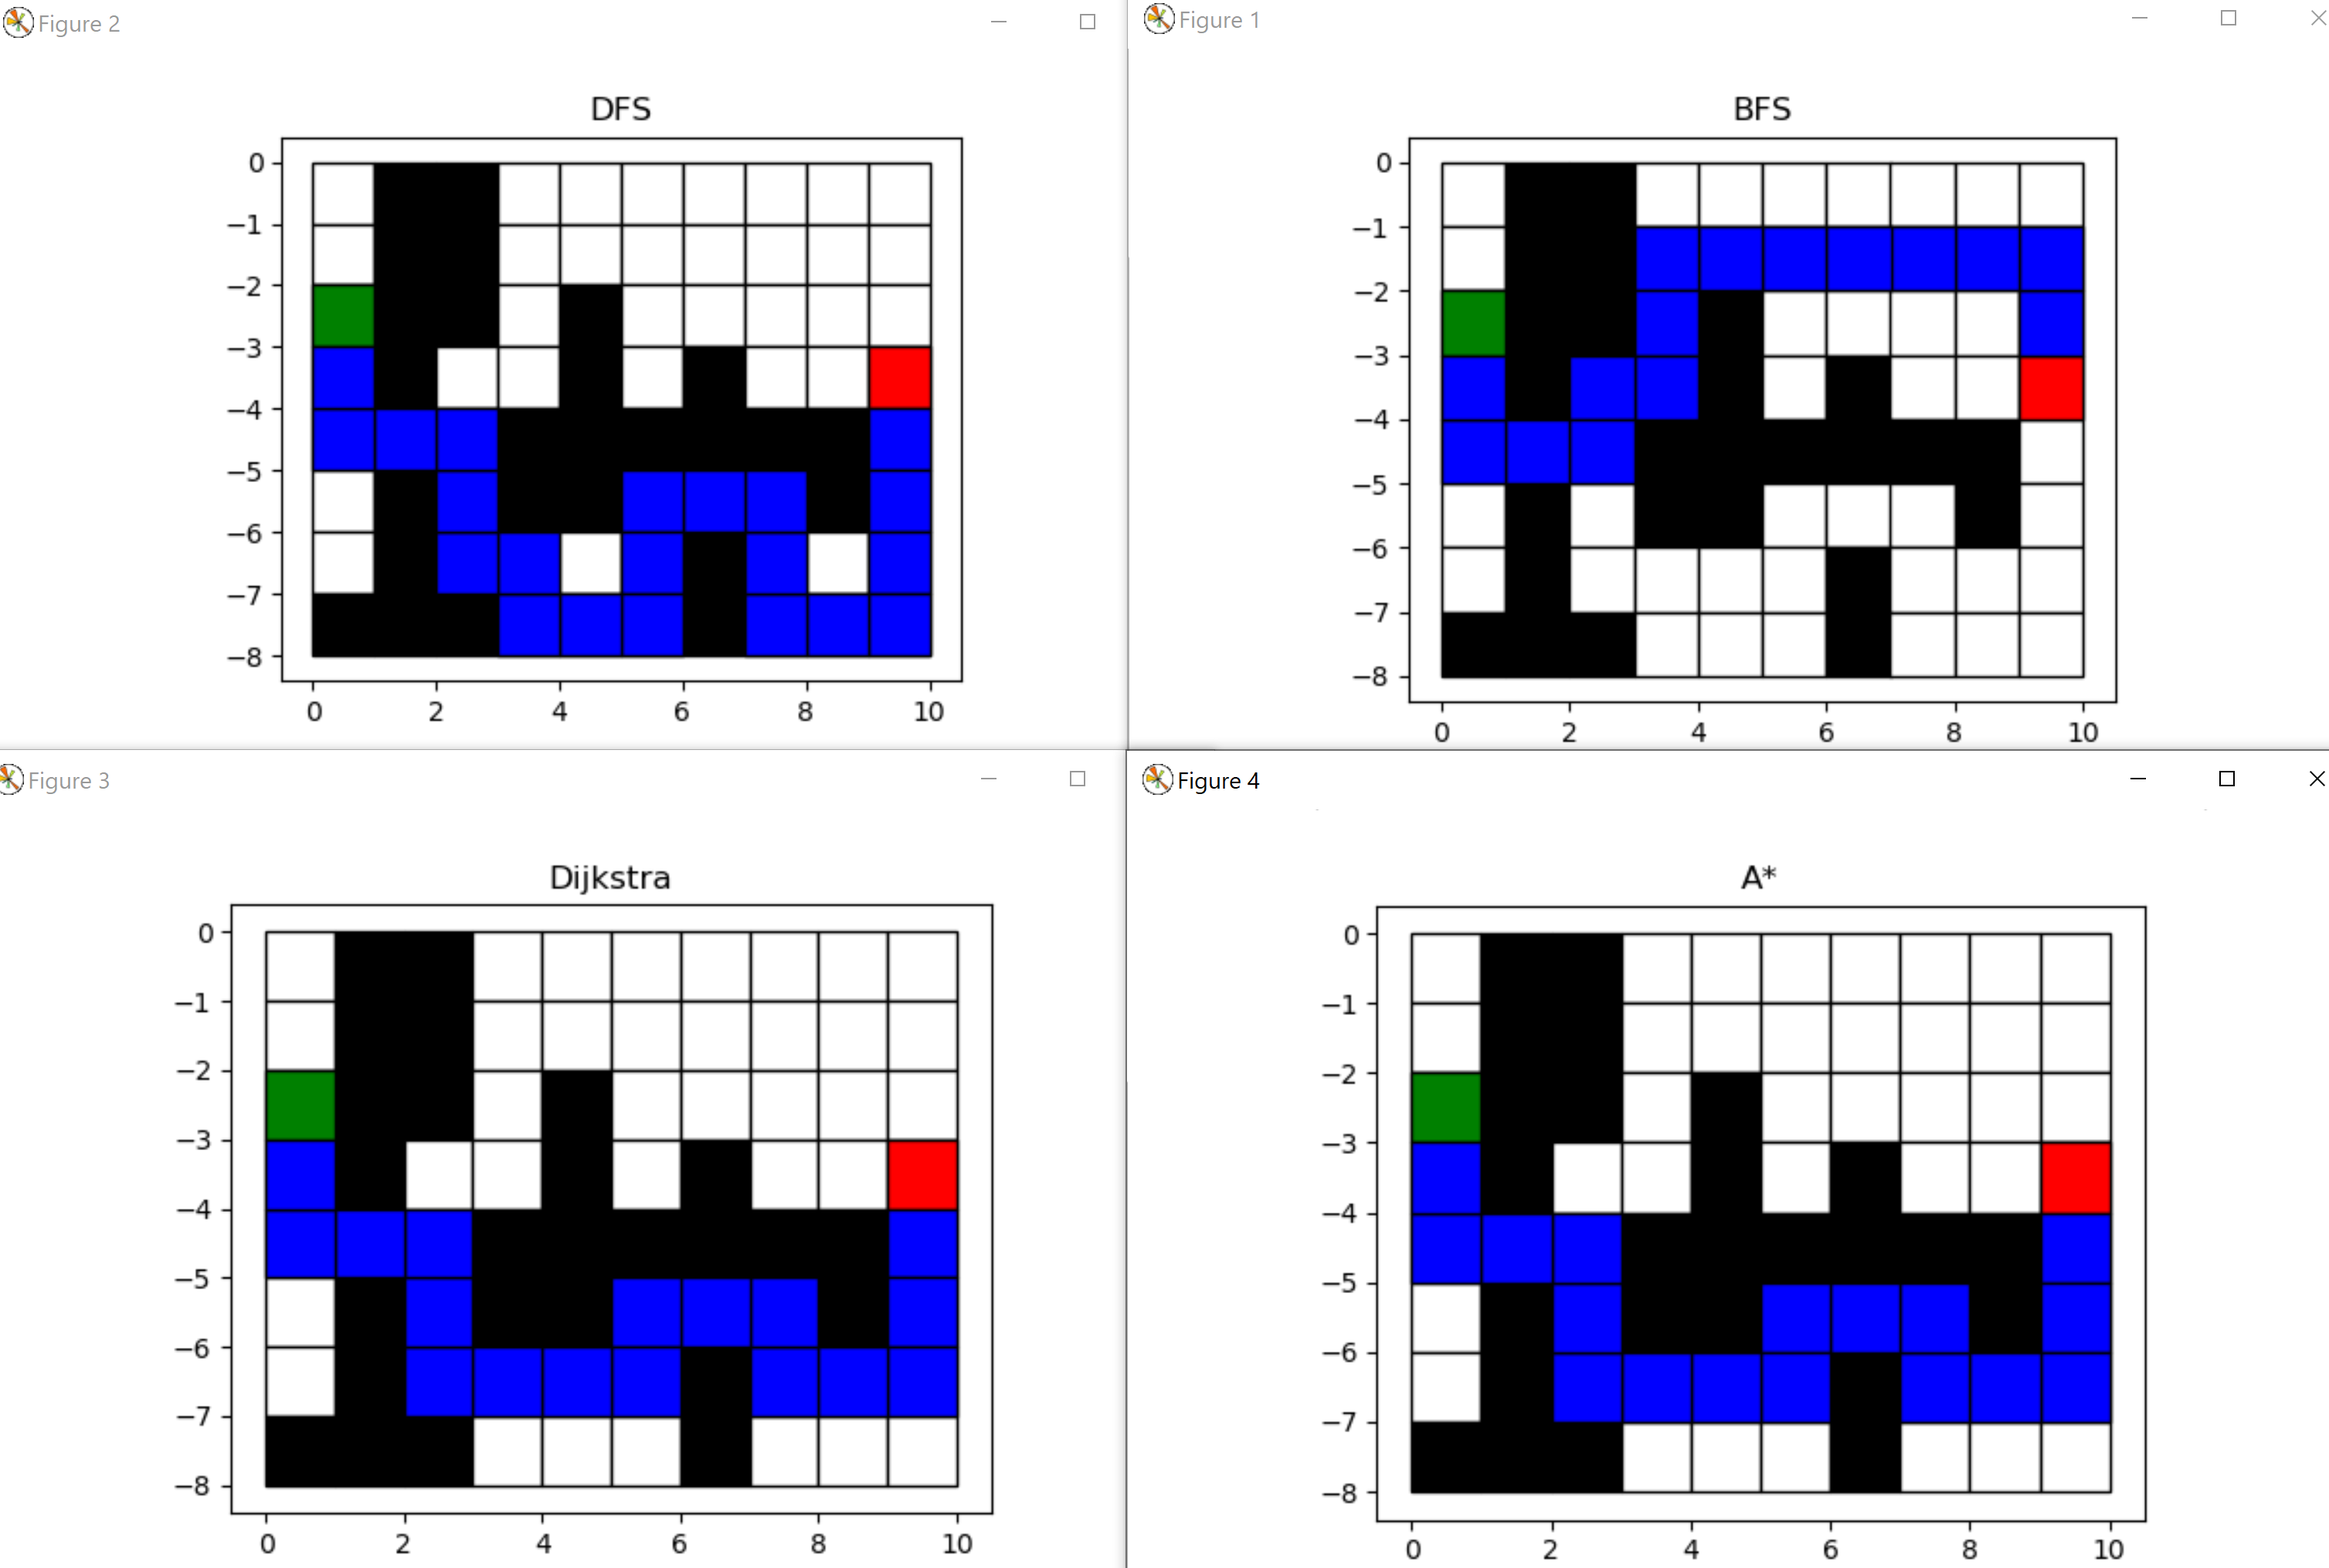
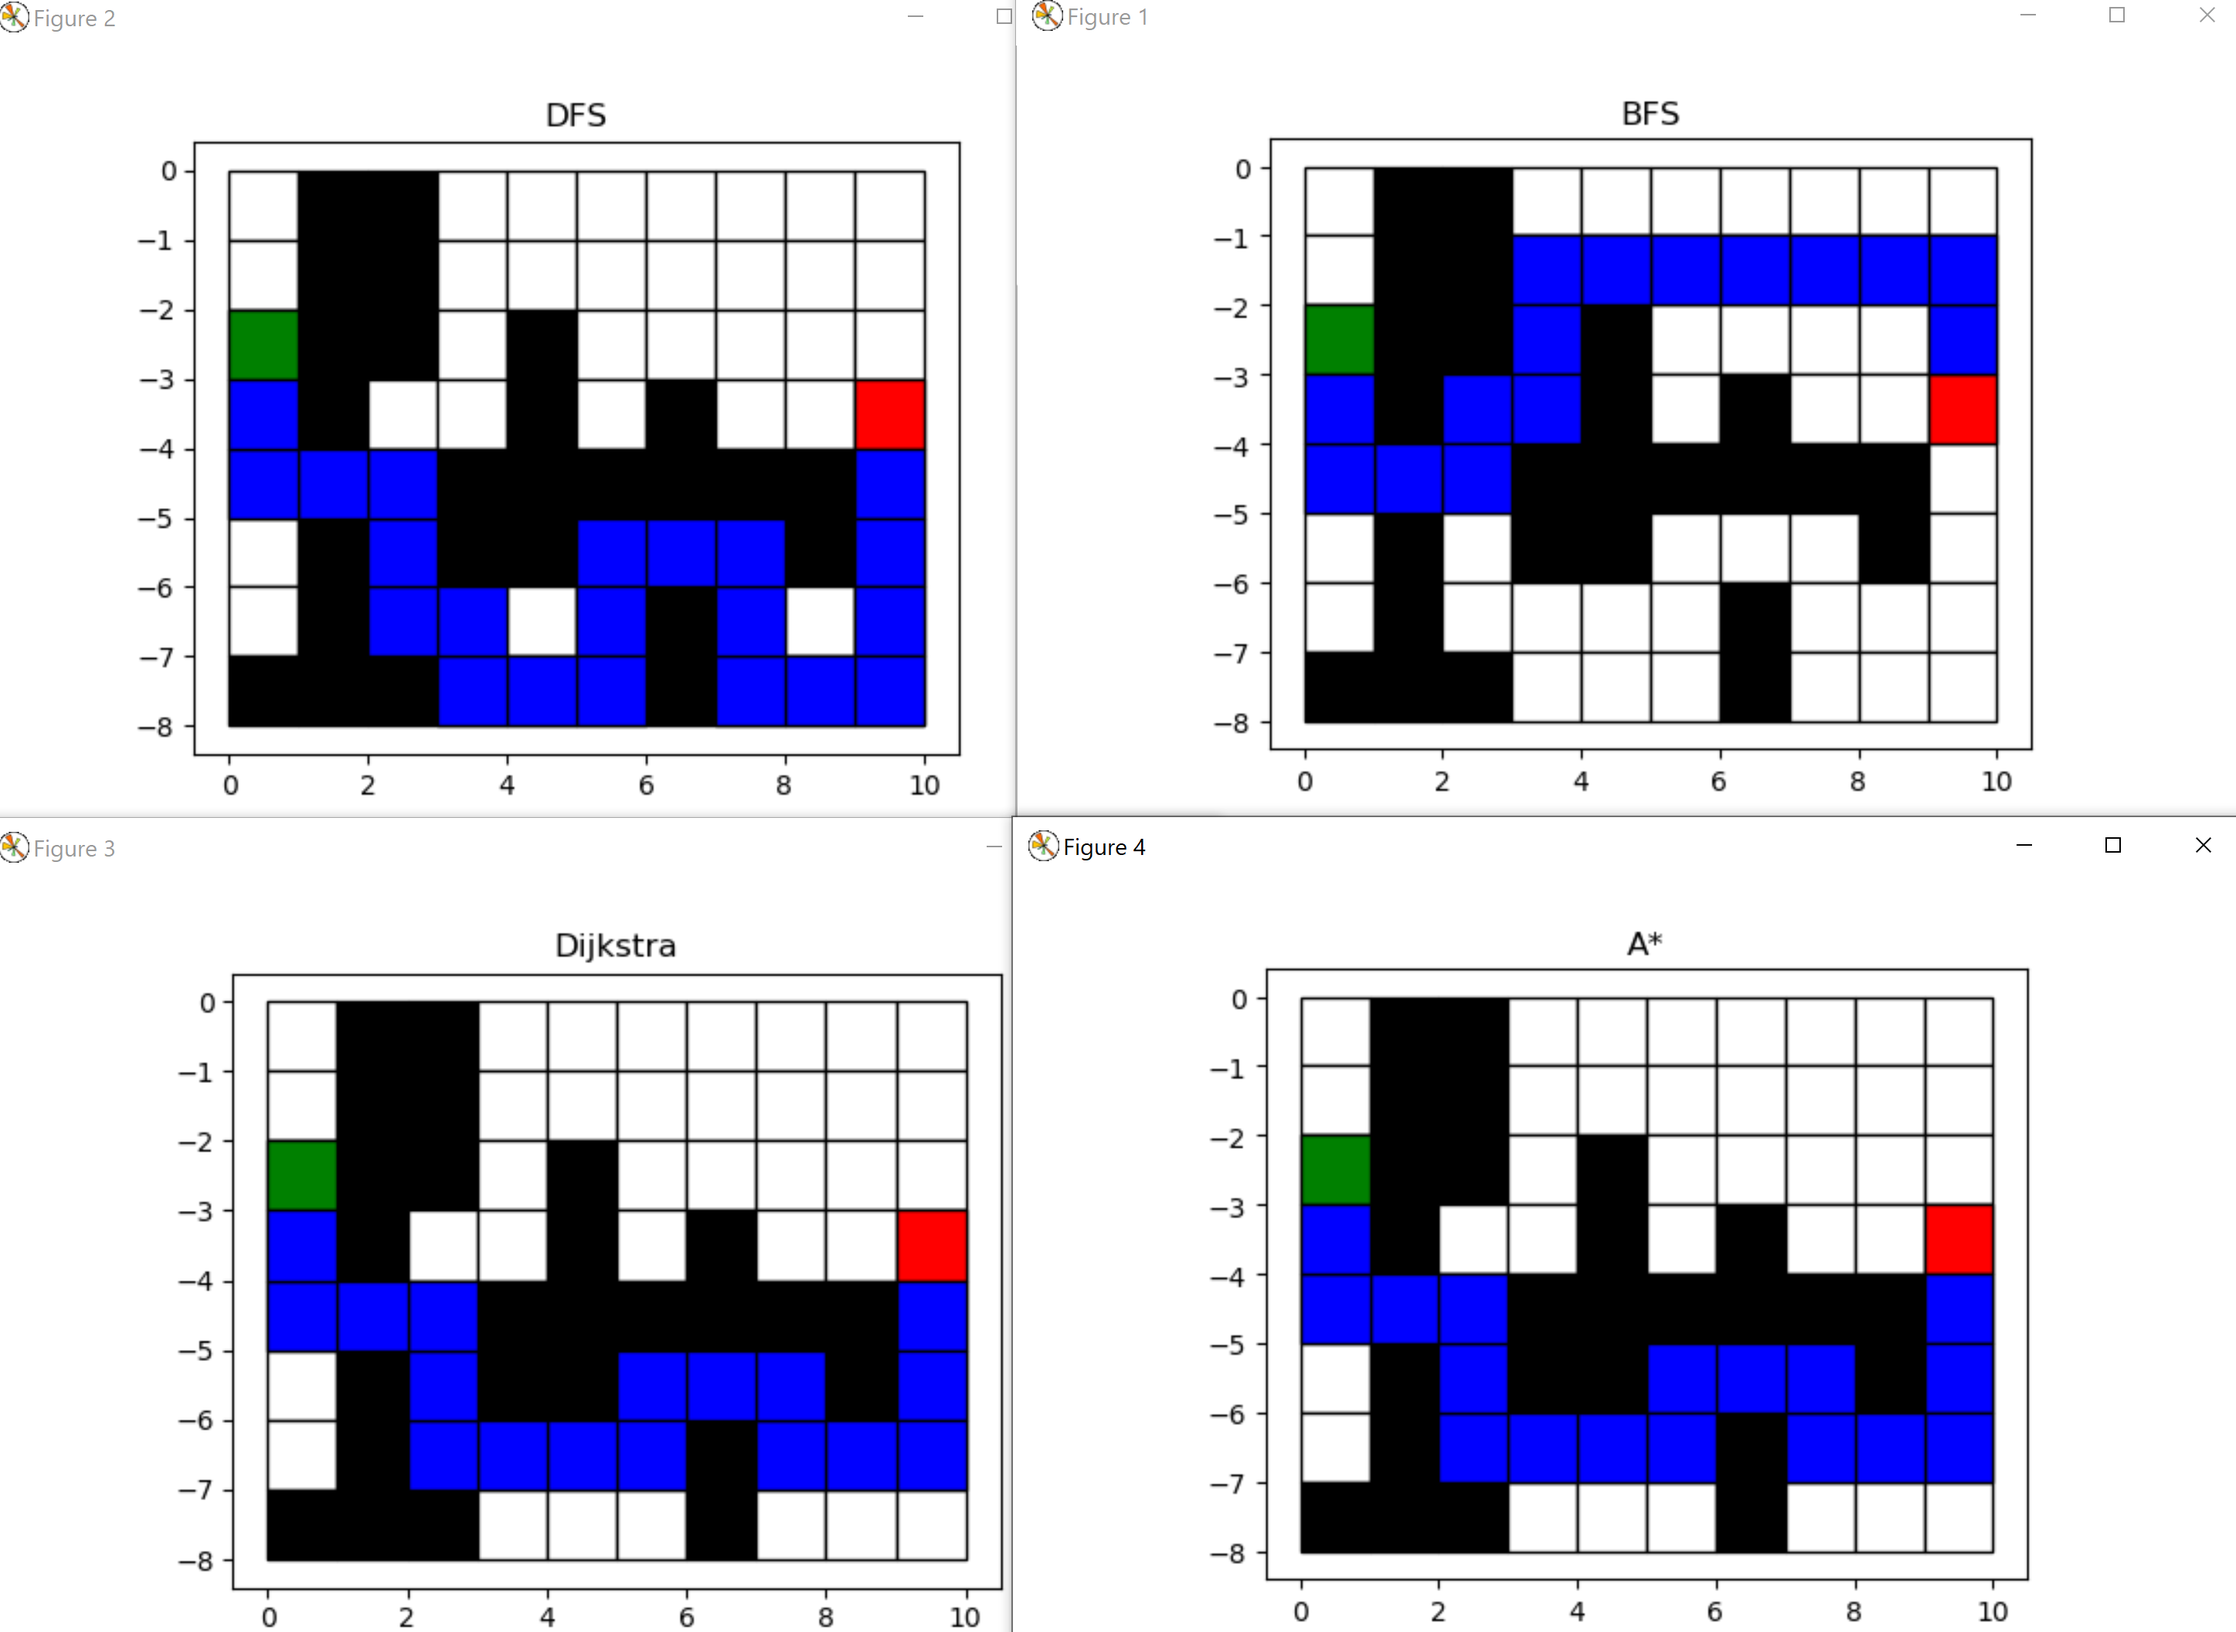
readme

diff --git a/search_algorithm/basic/README.md b/search_algorithm/basic/README.md
@@ -10,13 +10,13 @@
 
 ### Result explanation
 
-#### DFS
-
-DFS always expands the newest neighbor nodes first. As shown in the figure, it takes the most moves, exploring all the closest neighbors until finding the goal.
-
 #### BFS
 
-BFS always expands the closest neighbor nodes first. In this implementation, it always tries to go down first, then right, left, up. As shown in the figure, it takes the less moves to find the goal, but the path is not optimal.
+BFS always expands the closest neighbor nodes first. As shown in the figure, it takes the most moves, exploring all the closest neighbors until finding the goal.
+
+#### DFS
+
+DFS always expands the newest neighbor nodes first. In this implementation, it always tries to go down first, then right, left and up. As shown in the figure, it takes the less moves to find the goal, but the path is not optimal.
 
 #### Dijkstra
 
